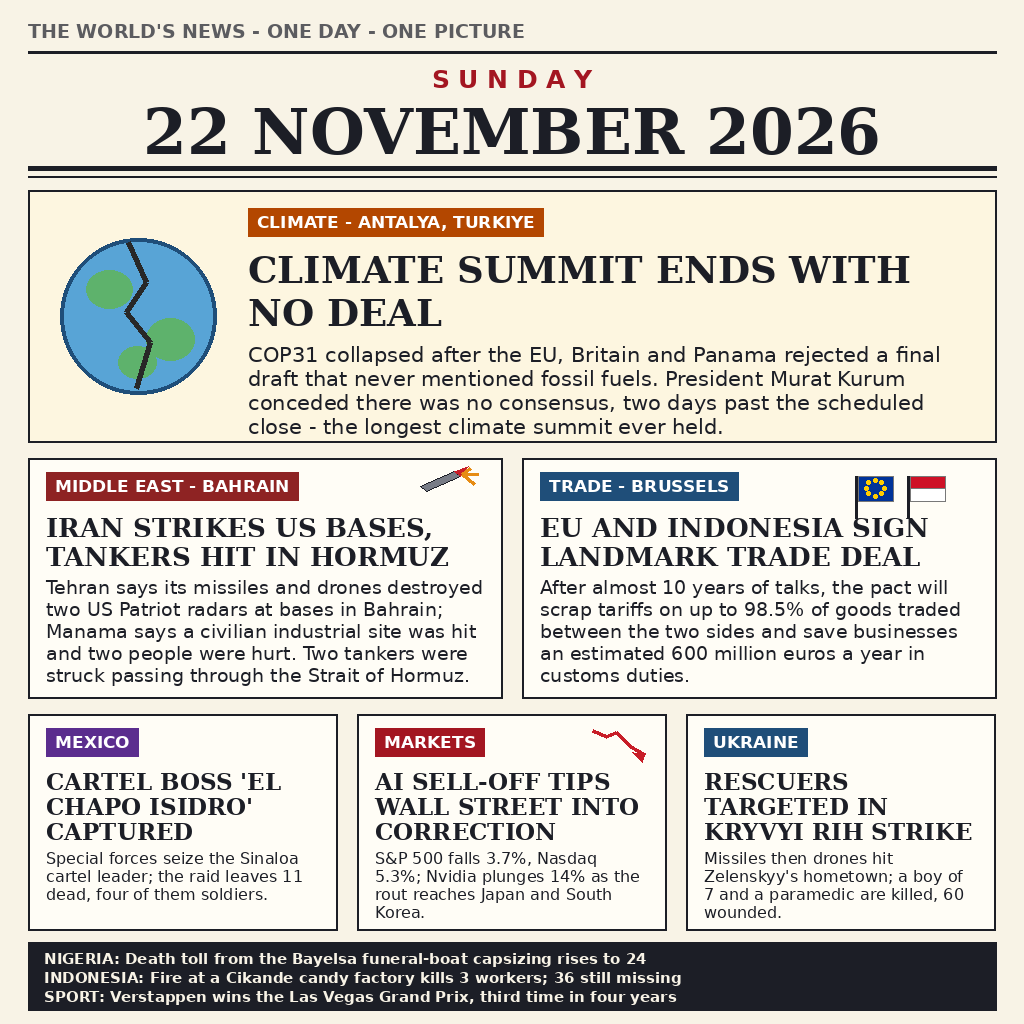
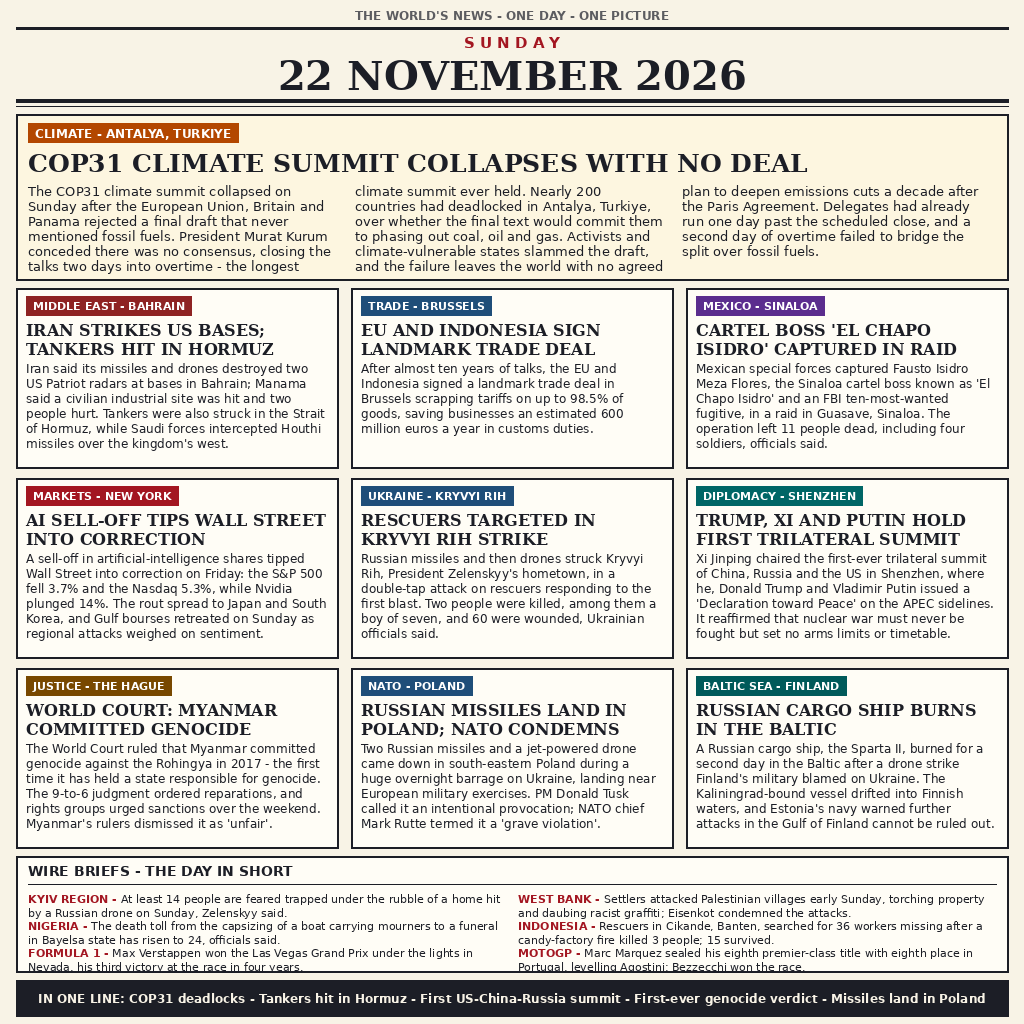
Densify front page: 16 stories with fuller summaries

diff --git a/README.md b/README.md
@@ -12,34 +12,55 @@ news in a single image.
 
 ## What the picture shows
 
-A one-page broadsheet dated **Sunday 22 November 2026**:
+A dense one-page broadsheet dated **Sunday 22 November 2026** — sixteen
+stories, each verified against at least two sources on the day:
 
-- **Climate summit ends with no deal** — COP31 in Antalya, Türkiye collapsed
-  after the EU, Britain and Panama rejected a final draft that never mentioned
-  fossil fuels; President Murat Kurum conceded there was no consensus, two
-  days past the scheduled close, in the longest climate summit ever held.
-  (CNN, The Times, Reuters)
+- **COP31 climate summit collapses with no deal** — the EU, Britain and
+  Panama rejected a final draft that never mentioned fossil fuels; President
+  Murat Kurum conceded there was no consensus, two days into overtime, in the
+  longest climate summit ever held. (CNN, The Times, Reuters)
 - **Iran strikes US bases; tankers hit in Hormuz** — Tehran says its missiles
   and drones destroyed two US Patriot radars in Bahrain; Manama says a
-  civilian industrial site was hit and two people were hurt, and two tankers
-  were struck in the Strait of Hormuz. (Al Jazeera, GlobalSecurity)
+  civilian industrial site was hit and two people were hurt; tankers were
+  struck in the Strait of Hormuz and Saudi forces intercepted Houthi missiles.
+  (Al Jazeera, Reuters, GlobalSecurity)
 - **EU and Indonesia sign landmark trade deal** — signed in Brussels after
-  almost 10 years of talks; tariffs on up to 98.5% of goods will be scrapped,
-  saving businesses an estimated €600 million a year. (EU Council, Europe Says)
-- **Cartel boss 'El Chapo Isidro' captured** — Mexican special forces seize
-  the Sinaloa cartel leader in a raid that leaves 11 dead, four of them
-  soldiers. (AP, Al Jazeera)
-- **AI sell-off tips Wall Street into correction** — the S&P 500 falls 3.7%
-  and the Nasdaq 5.3%; Nvidia plunges 14% as the rout reaches Japan and South
-  Korea. (WSJ, Le Monde, AP)
+  almost ten years of talks; tariffs on up to 98.5% of goods scrapped, saving
+  an estimated €600 million a year in customs duties. (EU Council, Europe Says)
+- **Cartel boss 'El Chapo Isidro' captured in raid** — special forces seized
+  Fausto Isidro Meza Flores, an FBI ten-most-wanted fugitive, in Guasave,
+  Sinaloa; 11 people died, including four soldiers. (AP, Al Jazeera)
+- **AI sell-off tips Wall Street into correction** — the S&P 500 fell 3.7%
+  and the Nasdaq 5.3%; Nvidia plunged 14% as the rout reached Japan and South
+  Korea and Gulf bourses retreated. (WSJ, Le Monde, AP, Reuters)
 - **Rescuers targeted in Kryvyi Rih strike** — missiles then drones hit
-  Zelenskyy's hometown; a boy of 7 and a paramedic are killed, 60 wounded.
-  (CNN, AP)
+  Zelenskyy's hometown in a double-tap attack; two people were killed, among
+  them a boy of seven, and 60 wounded. (CNN, AP)
+- **Trump, Xi and Putin hold first trilateral summit** — in Shenzhen, on the
+  APEC sidelines, the three issued a "Declaration toward Peace" reaffirming
+  that nuclear war must never be fought, but set no arms limits or timetable.
+  (Xinhua, RFE/RL, Particle)
+- **World Court: Myanmar committed genocide** — the ICJ ruled Myanmar
+  committed genocide against the Rohingya in 2017, the first time it has held
+  a state responsible for genocide; the 9-to-6 judgment ordered reparations.
+  (HRW, WSJ, CNN)
+- **Russian missiles land in Poland; NATO condemns** — two missiles and a
+  jet-powered drone came down in south-eastern Poland near European military
+  exercises; PM Tusk called it an intentional provocation and NATO chief
+  Rutte a "grave violation". (AP, Al Jazeera)
+- **Russian cargo ship burns in the Baltic** — the Sparta II burned for a
+  second day after a drone strike Finland's military blamed on Ukraine; the
+  Kaliningrad-bound vessel drifted into Finnish waters. (Reuters, Al Jazeera)
 
-Footer briefs: the death toll from the Bayelsa funeral-boat capsizing in
-Nigeria rises to 24 (Reuters, AP); a fire at a candy factory in Cikande,
-Indonesia kills 3 workers with 36 still missing (AP, Reuters); Verstappen
-wins the Las Vegas Grand Prix for the third time in four years (Reuters).
+Wire briefs: at least 14 people feared trapped under a drone-hit home in the
+Kyiv region (Reuters, The Hindu); settlers attacked Palestinian villages in
+the West Bank and Gadi Eisenkot condemned the attacks (Reuters, AP); the
+Bayelsa funeral-boat death toll in Nigeria rose to 24 (Reuters, AP);
+rescuers in Cikande, Banten searched for 36 workers missing after a
+candy-factory fire killed 3 (Reuters, AP); Verstappen won the Las Vegas
+Grand Prix for the third time in four years (Reuters, Formula1.com); Marc
+Marquez sealed his eighth premier-class MotoGP title in Portugal, levelling
+Giacomo Agostini, as Bezzecchi won the race (Reuters, Autosport).
 
 The image is drawn programmatically (Python/PIL) so every word renders
 exactly as written — no generated text. All artwork is original; no
